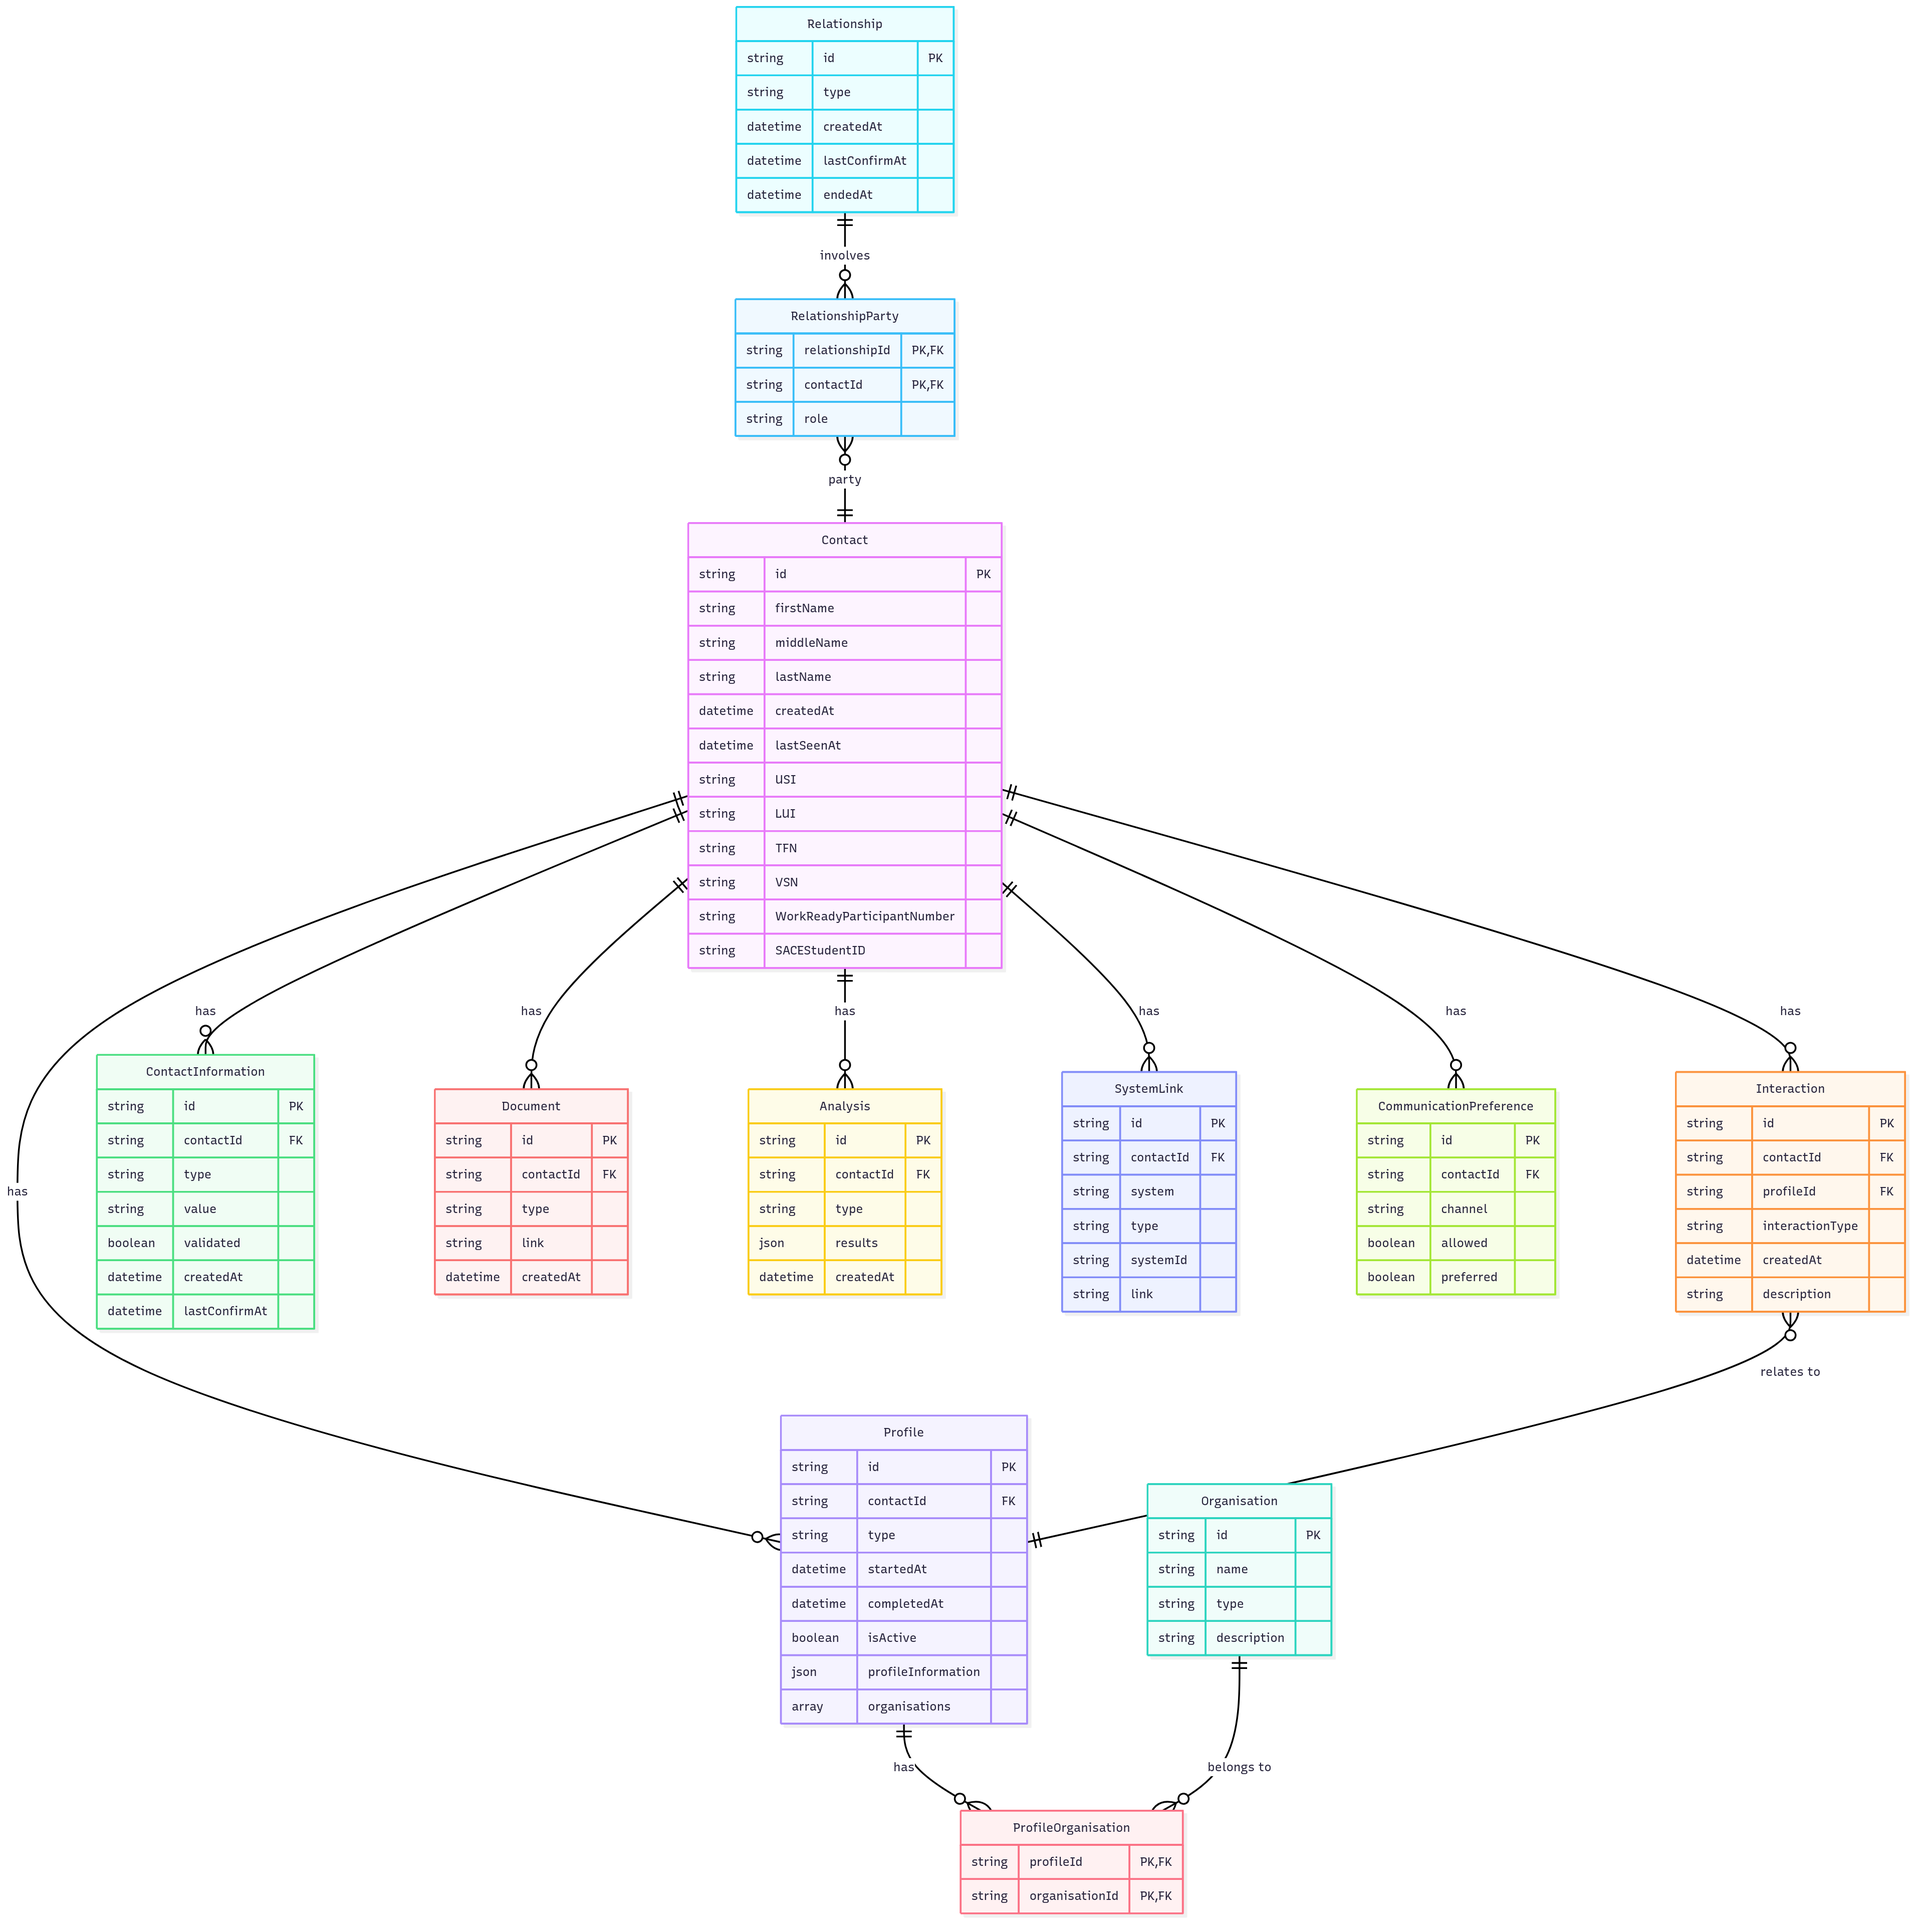
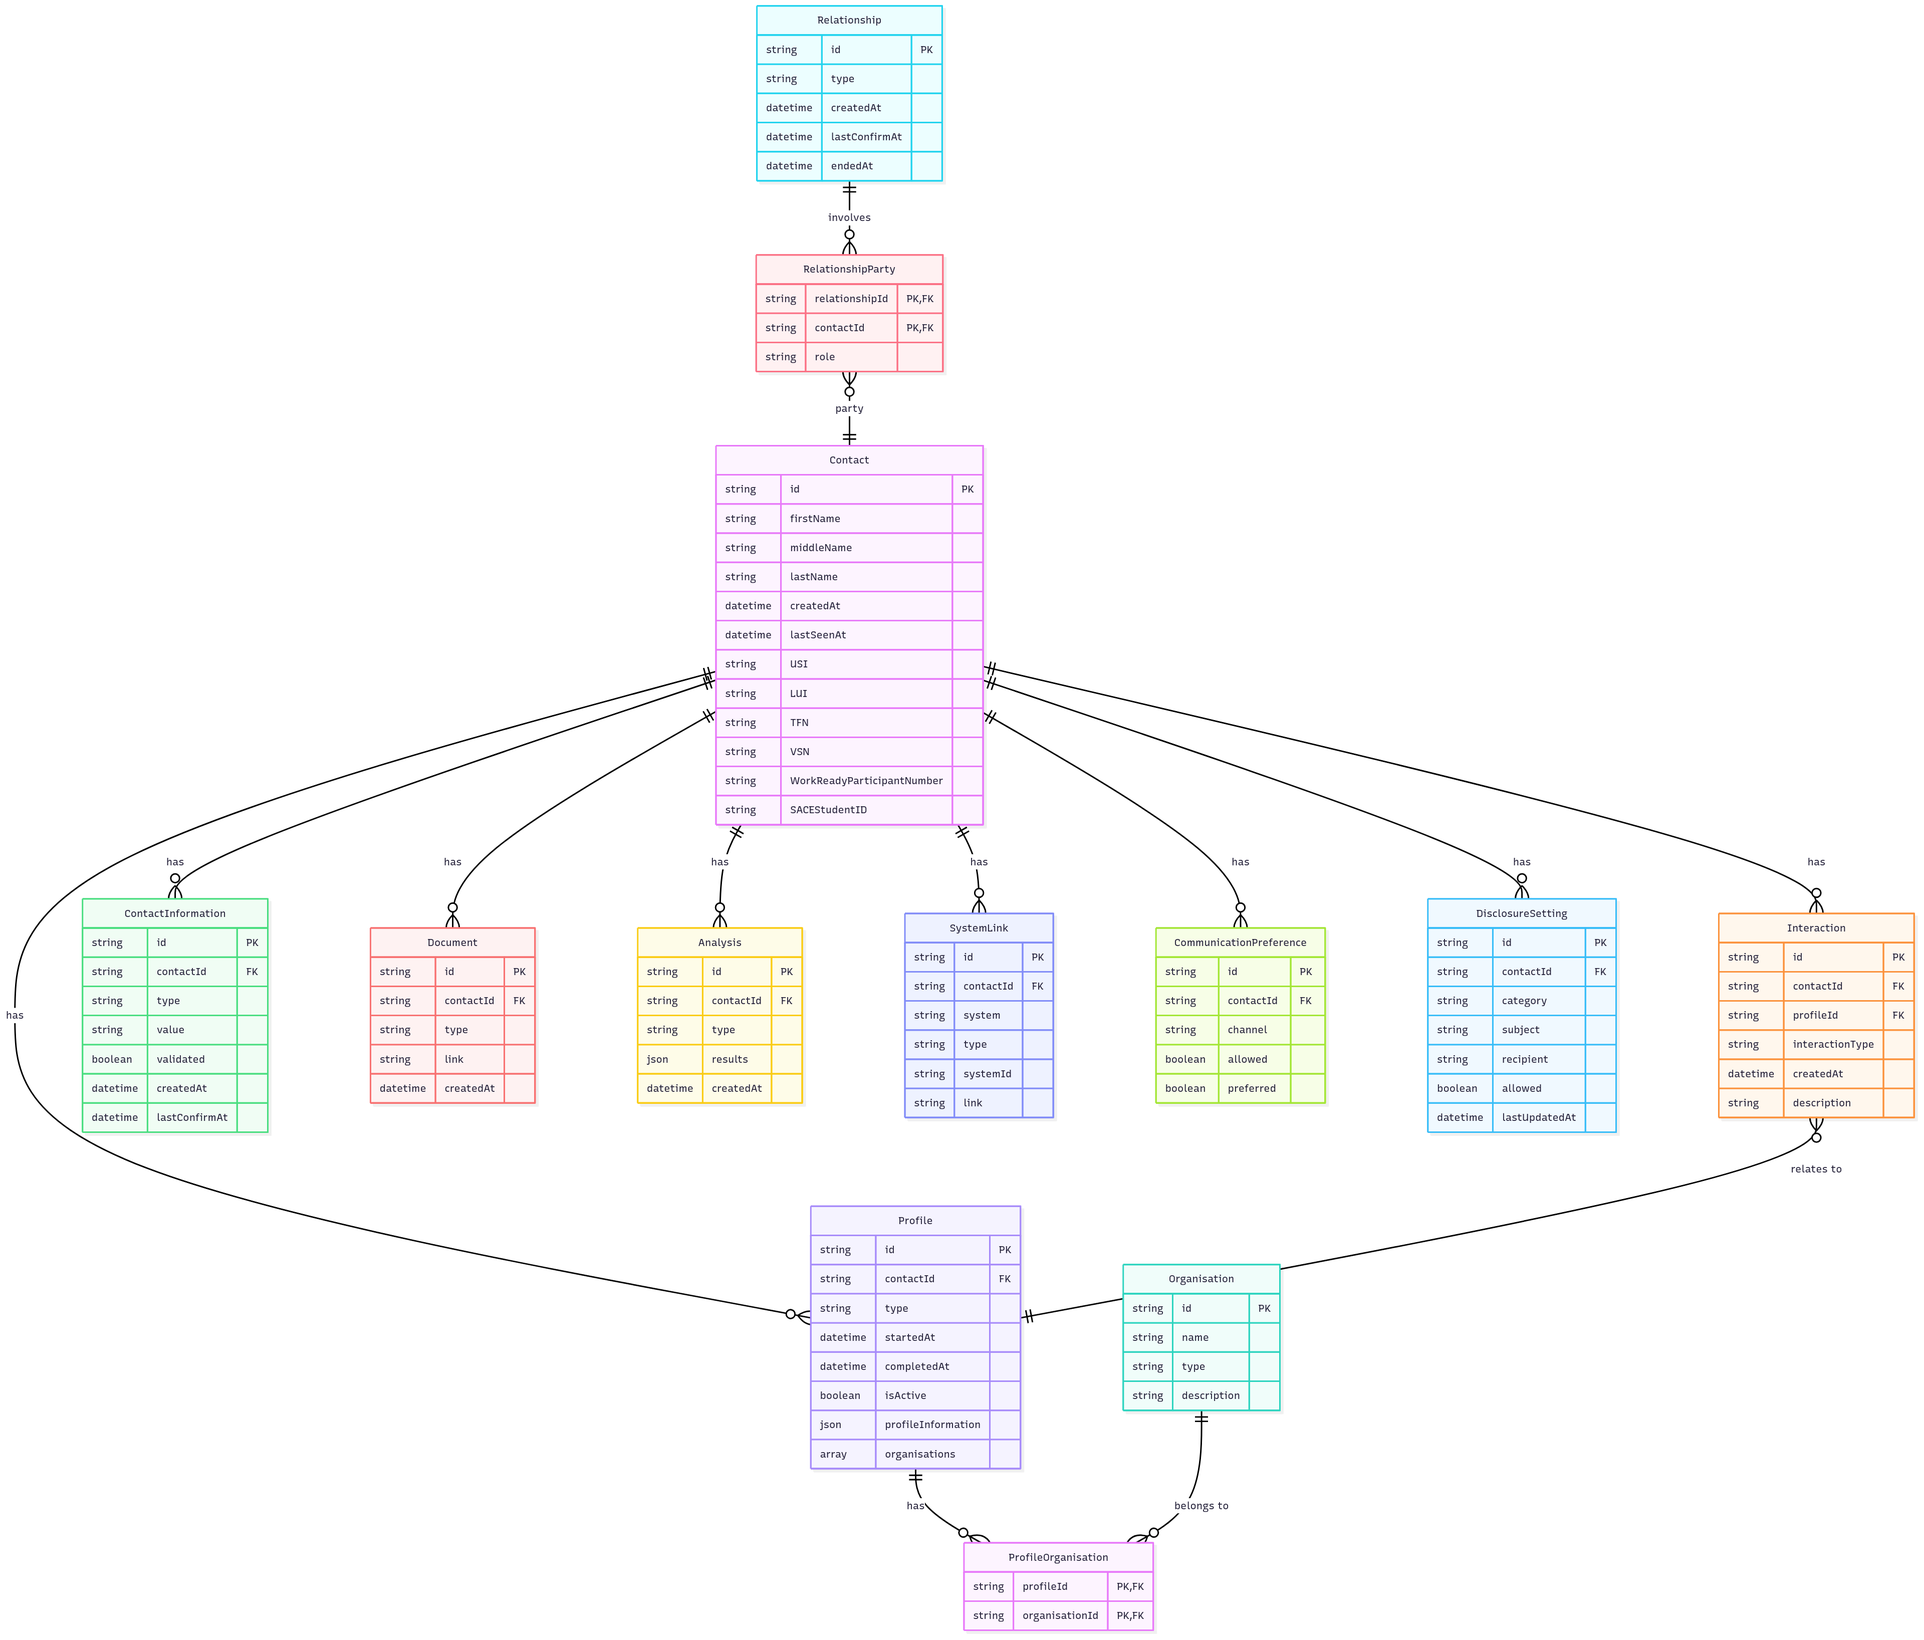
Add disclosure settings to entity diagram

diff --git a/api_spec_workspace/urs-api-specs/src/entity_diagram.md b/api_spec_workspace/urs-api-specs/src/entity_diagram.md
@@ -92,6 +92,16 @@ erDiagram
         boolean preferred
     }
 
+    DisclosureSetting {
+        string id PK
+        string contactId FK
+        string category
+        string subject
+        string recipient
+        boolean allowed
+        datetime lastUpdatedAt
+    }
+
     RelationshipParty {
         string relationshipId PK, FK
         string contactId PK, FK
@@ -110,6 +120,7 @@ erDiagram
     Contact ||--o{ SystemLink : "has"
     Contact ||--o{ CommunicationPreference : "has"
     Contact ||--o{ Interaction : "has"
+    Contact ||--o{ DisclosureSetting : "has"
 
     Interaction }o--|| Profile : "relates to"
 
